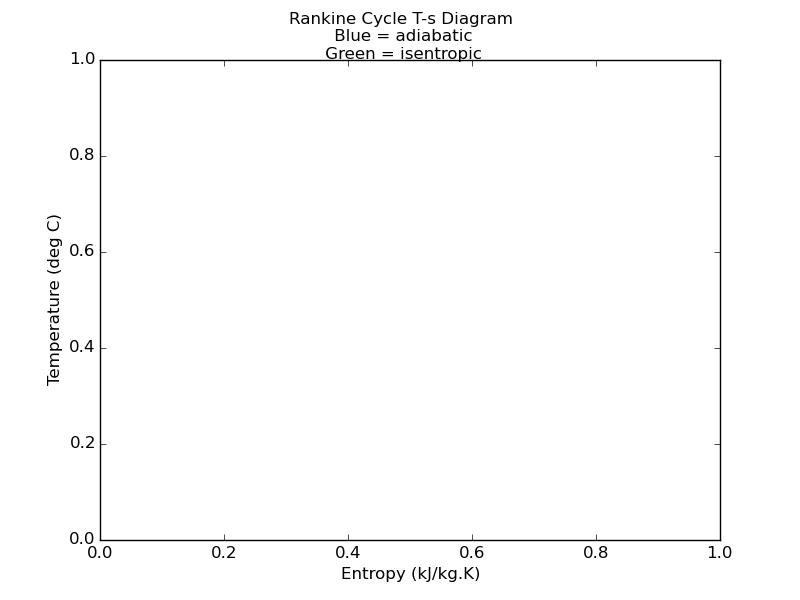
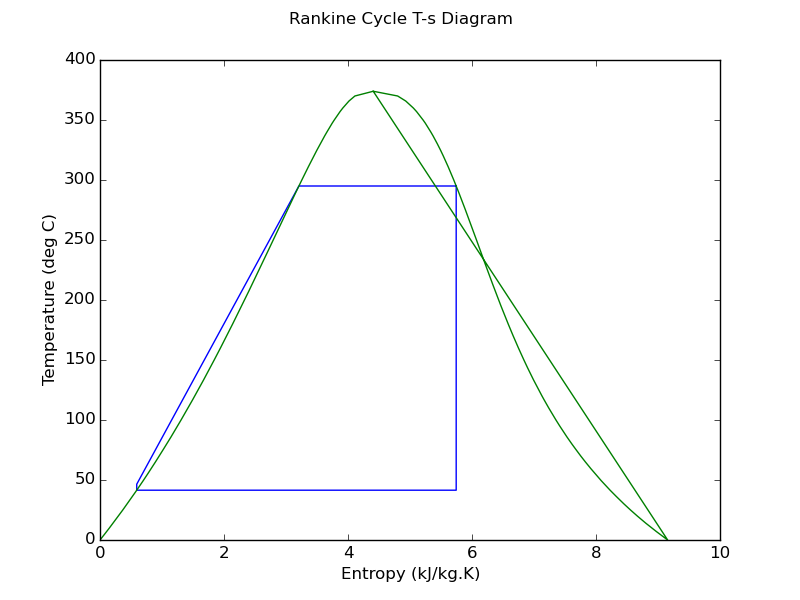
draw T-s plot with t, s data and the two-phase dome

diff --git a/rankine.py b/rankine.py
@@ -32,10 +32,7 @@ h2o_comp = h2o_comp.dropna(axis=1) #remove last NaN column
 #print h2o_comp
 
 # begin computing processess for rankine cycle
-fig = plt.figure(1)
-plt.figure(1).suptitle("Rankine Cycle T-s Diagram \n Blue = adiabatic \n Green = isentropic")
-plt.xlabel("Entropy (kJ/kg.K)")
-plt.ylabel("Temperature (deg C)")
+
 
 # State 1, saturated vapor at high pressure
 # assume that this isn't a superheated rankine cycle, so state 2 is saturated vapor at pressure p_hi
@@ -63,6 +60,9 @@ v3 = h2o_sat[h2o_sat['P']==p_lo]['vf'].values[0]
 wp = v3*(p_hi - p_lo)*(10**3) # convert MPa to kPa
 h4 = h3 + wp
 
+# find State 4b, high pressure saturated liquid
+s4b = h2o_sat[h2o_sat['P']==p_hi]['sf'].values[0]
+
 # Find work and heat for each process
 wt = h1 - h2
 qb = h1 - h4
@@ -89,5 +89,33 @@ print('qc = {:.2f}'.format(qc))
 print('eta = {:.2f}'.format(eta))
 print('bwr = {:.2f}'.format(bwr))
 
-# save figure to directory
-# fig.savefig("graph.png")
+# get temperature values for T-s plot
+T1 =  h2o_sat[h2o_sat['P']==p_hi]['T'].values[0]
+T2 =  h2o_sat[h2o_sat['P']==p_lo]['T'].values[0]
+T3 = T2
+T4 = T3 + 5 # temporary until I can interpolate to find real T3
+# note: use h4, s4 to fix the state to find T4
+T_pts = [T1, T2, T3, T4, T1, T1]
+s_pts = [s1, s2, s3, s4, s4b, s1]
+# for i in s_pts: #round to two decimal places
+#   s_pts(i) = float('{:.2f}'.format(i))
+print T_pts
+print s_pts
+
+# draw saturated dome. Get values from sat table
+Tsat_pts = h2o_sat['T'].tolist()
+ssat_pts = h2o_sat['sf'].tolist()
+Tsat_pts.extend(Tsat_pts) # double the temp list to get the sg values also
+ssat_pts.extend(h2o_sat['sg'].tolist())
+# sort the lists
+#Tsat_pts =
+s3 =  h2o_sat[h2o_sat['P']==p_lo]['T'].values[0]
+s3 =  h2o_sat[h2o_sat['P']==p_lo]['T'].values[0]
+
+# Draw T-s plot
+plt.clf()
+plt.plot(s_pts,T_pts,'b',ssat_pts,Tsat_pts,'g')
+plt.suptitle("Rankine Cycle T-s Diagram")
+plt.xlabel("Entropy (kJ/kg.K)")
+plt.ylabel("Temperature (deg C)")
+plt.savefig("graph.png") # save figure to directory
